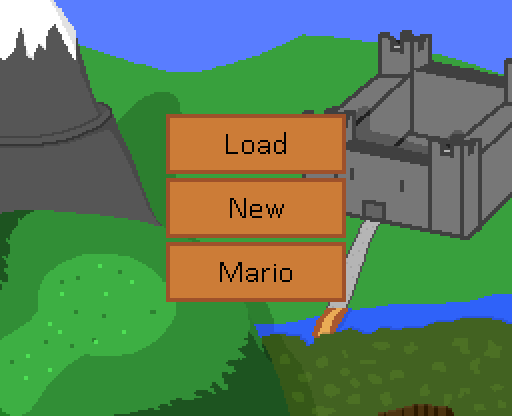
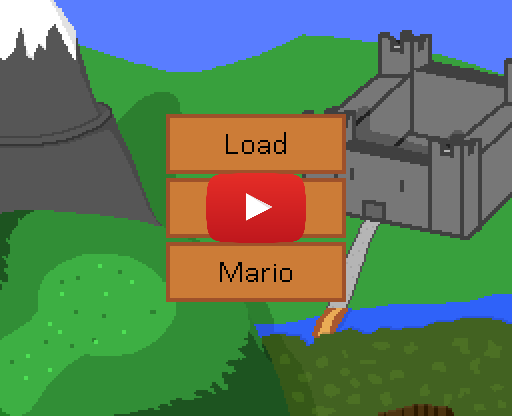
Commit #018
- Add video to SDL Emblem
- Updated SDL Emblem image to reflect that
- Enabled image-to-video script

Changed region(s): [[0.375, 0.4062, 0.625, 0.5938]]

diff --git a/index.html b/index.html
@@ -47,8 +47,7 @@
 				<!-- One -->
 					<section id="one" class="wrapper style2 spotlights">
 						<section>
-							<a class="image" data-src = "https://www.youtube.com/embed/0XNPVE-tJDQ?controls=0autoplay=0" onMouseOver="showVideo(this)"><img src="images/toybox.png" alt="" data-position="top center"/></a>
-							<a class="video"onMouseOut="hideVideo(this)" style="display:none;"><iframe id="youtube"></iframe></a>
+							<a class="image"><img src="images/toybox.png" alt="" data-position="top center"/></a>
 							<div class="content">
 								<div class="inner">
 									<h2>Multiplayer Tower Defence (Unity)</h2>
@@ -64,7 +63,8 @@
 							</div>
 						</section>
 						<section>
-							<a class="image"><img src="images/sdlemblem/title.png" alt="" data-position="center center" /></a>
+							<a class="image" data-src = "https://www.youtube.com/embed/MahbuPYpegg?controls=1autoplay=1" onMouseOver="showVideo(this)"><img src="images/sdlemblem/title.png" alt="" data-position="center center" /></a>
+							<a class="video"onMouseOut="hideVideo(this)" style="display:none;"><iframe id="youtube"></iframe></a>
 							<div class="content">
 								<div class="inner">
 									<h2>SDL Emblem (C++)</h2>

diff --git a/assets/js/image-to-video.js b/assets/js/image-to-video.js
@@ -1,4 +1,4 @@
-var enabled = false;
+var enabled = true;
 
 function showVideo(obj)
 {
